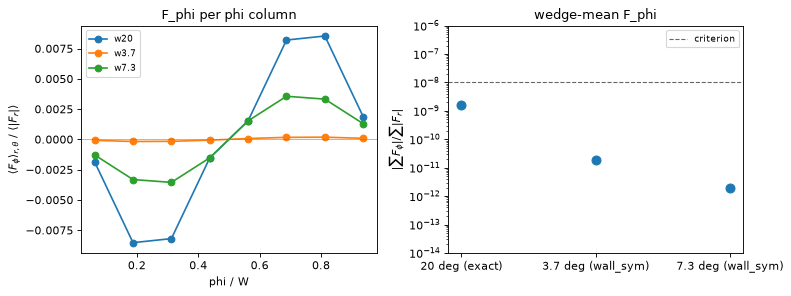
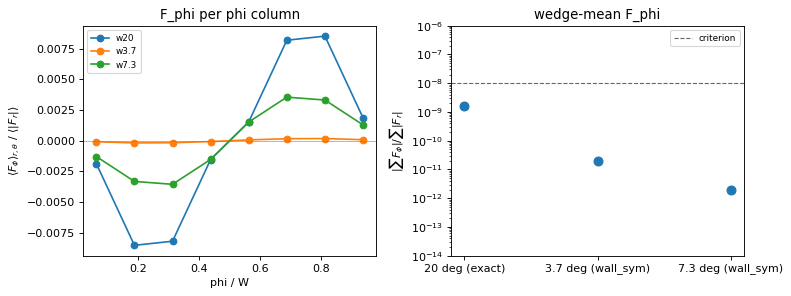
Sync from vet-clean-release c74b0d083: order of accuracy as measured; front page wording

diff --git a/source/properties.rst b/source/properties.rst
@@ -34,7 +34,9 @@ reason it holds, where it stops holding, and the test in ``tests/vet_clean`` tha
 | well-balance             | equilibrium envelopes stay at rest to about 1e-9 of the sound    |
 |                          | speed                                                            |
 +--------------------------+------------------------------------------------------------------+
-| order                    | second order in space and time, asymptotically                   |
+| order                    | successive orders of the finest pair: 1.8 (time ladder of deck   |
+|                          | D), 1.9-2.2 (grid + time ladder of a linear wave); first order   |
+|                          | in time where the gas-radiation exchange is stiff                |
 +--------------------------+------------------------------------------------------------------+
 | radiation-acoustic waves | phase speed and damping right in every trapping regime           |
 +--------------------------+------------------------------------------------------------------+
@@ -243,13 +245,24 @@ the rotating sets ``_rot`` 4.7e-9 and 9e-10).
    The spherical-polar envelope at t = 0 and t = 10: density, internal and radiation energy (left; the curves overlap) and the radial velocity, of order 1e-10 (right).
 
 
-Second order in space and time
-~~~~~~~~~~~~~~~~~~~~~~~~~~~~~~
+Order of accuracy in space and time
+~~~~~~~~~~~~~~~~~~~~~~~~~~~~~~~~~~~
 
-The face terms are second order in space; the IMEX SDIRK2 pairing is second order in time.
-At the time steps of the test, deck D is still pre-asymptotic: the successive orders are 1.57,
-1.61 and 1.84 (E) as dt is halved, and finer ladders reach 2. A first-order defect would show
-as an order near 1.
+The face terms are second order in space by design. What the tests measure:
+
+- Time, deck D (spherical shell, kinematic gas, dt halved from 1/16 to 1/256 on a fixed
+  grid): the successive orders are 1.57, 1.61, 1.84 (E), 1.50, 1.52, 1.81 (F_r) and 1.34,
+  1.43, 1.83 (T), below 2 on the whole ladder. The finest pair differs by 3.15e-5 (E),
+  1.68e-4 (F_r) and 6.9e-6 (T). The loss is attributed to the weight 1/(1 + z), z = c dt/dx,
+  of the stage-2 closure line (an earlier study, not re-measured on this release).
+- Grid and time step together, a linear radiation-hydro wave (N = 16 ... 128): the orders are
+  1.79, 2.19 (E) and 1.50, 1.94 (v); the finest pair differs by 4.49e-3 (E) and 1.11e-2 (v).
+
+The exchange is not stiff in either deck. Where it is stiff, the production tableau
+(``time2_tableau = sdirk2``) is first order in time: on a radiation-acoustic wave (64 cells,
+dt halved) the successive orders of E are 1.08, 1.04 at x = 100 and fall 1.51, 1.34, 1.20 at
+x = 1 and at x = 10 (``time2_tableau = hesdirk2``: 2.0 in all three). These are from a study on
+this release, not a suite test.
 
 Test: ``order_time`` (order of the finest pair >= 1.7), ``order_space`` (linear
 radiation-hydro wave on a Cartesian mesh, finest pair >= 1.7).
@@ -425,8 +438,8 @@ removes the one-frame seam face's net :math:`F_\theta` (the 2.5e-2 mirror error 
 Test: ``wedge_sym`` (a spherically symmetric shell on 3.7 and 7.3 deg wedges with the key and a
 20 deg wedge without it: :math:`|\sum F_\phi|/\sum|F_r| \le 10^{-8}`, measured 2e-12 to 2e-9; the
 narrow wedge without the key stops with the FATAL; the shell made theta-periodic stops with
-the FATAL without ``vet_gd_theta_seam_sym``; with it the mean :math:`F_\theta` is reported, 1e-5 of
-:math:`\sum|F_r|` after 8 cycles, an open item).
+the FATAL without ``vet_gd_theta_seam_sym``; with it the mean :math:`F_\theta` is <= 1e-8 of
+:math:`\sum|F_r|` after 8 cycles, measured 1.6e-14).
 
 .. figure:: figures/wedge_sym.png
    :alt: wedge_sym
@@ -464,7 +477,8 @@ Reproducibility
   sums and the multigrid act on fixed N x N lateral tiles. Layouts made of whole tiles are
   bitwise identical when there is one MeshBlock along x1 and, if the theta boundaries are ray
   walls (mirror or vacuum), one MeshBlock along x2, as in the production templates. Splitting
-  across such walls gives a round-off difference (about 1e-10 after 8 cycles).
+  across such walls gives a round-off difference (below 1e-13 of the largest
+  value after 8 cycles, CPU, 89b05b1c7).
 - **Block mode** (default): the result depends on the MeshBlock size at the solver
   tolerance, because the preconditioner is MeshBlock-local.
 

diff --git a/source/tests.rst b/source/tests.rst
@@ -134,12 +134,12 @@ What the tests check
 |                      |                      | ``hydro/rad_signal_speed_phase`` (full   |                       |
 |                      |                      | only, ~1 min)                            |                       |
 +----------------------+----------------------+------------------------------------------+-----------------------+
-| ``wedge_sym``        | ``shell_sp``         | the shell at rest, spherically           | fphi <= 1e-8, fth_rot |
-|                      |                      | symmetric, GL 7 x 18 rays, 8 cycles, on  | <= 1e-8 (fth          |
-|                      |                      | a 20 deg wedge and (with                 | reported); the runs   |
-|                      |                      | ``vet_gd_wall_sym = true``) 3.7 and 7.3  | without their key,    |
-|                      |                      | deg wedges: fphi = \|Σ F_phi\| / Σ       | and 10 x 12, stop     |
-|                      |                      | \|F_r\|; the 3.7 deg wedge without the   | with the FATAL        |
+| ``wedge_sym``        | ``shell_sp``         | the shell at rest, spherically           | fphi, fth, fth_rot <= |
+|                      |                      | symmetric, GL 7 x 18 rays, 8 cycles, on  | 1e-8; the runs        |
+|                      |                      | a 20 deg wedge and (with                 | without their key,    |
+|                      |                      | ``vet_gd_wall_sym = true``) 3.7 and 7.3  | and 10 x 12, stop     |
+|                      |                      | deg wedges: fphi = \|Σ F_phi\| / Σ       | with the FATAL        |
+|                      |                      | \|F_r\|; the 3.7 deg wedge without the   |                       |
 |                      |                      | key; the 20 deg shell made               |                       |
 |                      |                      | theta-periodic with                      |                       |
 |                      |                      | ``vet_gd_theta_seam_sym = true``: fth =  |                       |
@@ -360,9 +360,10 @@ Notes on the results of this release (465aff485):
   is its face momenta (``CleanLzTotal``; ~0.6 % of the radiation's L_z apart).
 - **Layout.** Tile mode gives bit-identical results for every layout of whole-tile
   MeshBlocks with one MeshBlock along x1 and x2 (theta): 1 x 2 (along phi) is identical.
-  2 x 2 differs after 8 cycles by 1.6e-10 of the largest value: splitting theta puts ray
-  walls (mirror or vacuum) inside the mesh, which is outside the tile guarantee, so the test
-  bounds that difference instead of requiring 0.
+  2 x 2 differs after 8 cycles by 7.8e-14 of the largest value with 4 OpenMP threads, 3.6e-14
+  with 8 (CPU, 89b05b1c7): splitting theta puts ray walls (mirror or vacuum) inside the mesh,
+  which is outside the tile guarantee, so the test bounds that difference instead of
+  requiring 0.
   The ``dfl`` pair covers the stage-2 outflow limiter: under ``time2_tableau = sdirk2`` the u0
   ghosts held the stage-2 flux state while the interior held the gas state, so the two
   MeshBlocks of a face limited with different donors (before the fix: 1 x 2 differed by
@@ -387,8 +388,9 @@ Notes on the results of this release (465aff485):
   cycle. ``momentum_box`` therefore reports dP (printed, and kept with ``--record``) and does
   not bound it; on spherical polar and cubed-sphere meshes Cartesian P is not a discrete
   invariant at all (local bases), so the test is Cartesian only.
-- **Order.** Deck D reaches second order only as dt -> 0: successive orders 1.57, 1.61,
-  1.84 (E) over the five time steps. The criterion is on the finest pair.
+- **Order.** Deck D's successive orders are 1.57, 1.61, 1.84 (E) over the five time steps:
+  below 2 on the whole ladder. The criterion is on the finest pair.
+  Neither order deck has stiff gas-radiation exchange, where the sdirk2 tableau is first order.
 
 The reference values and tolerances are in ``ref/references.json`` (measured with commit
 512cf768a, CPU, GCC 13, ``-ffp-contract=off``; reproduced to all printed digits on 465aff485 with

diff --git a/source/keys.rst b/source/keys.rst
@@ -226,9 +226,13 @@ Time integration, time step and retries
 +----------------------------------+-----------------------------------+------------------+-----------------+-------------------------------+
 | ``rad_vet/time_scheme``          | ``hesdirk2``: two implicit stages | ``hesdirk2`` on  | all:            | ``rad_vet/rad_vet_init.cpp``  |
 |                                  | per step with the Heun hydro      | a fresh run that | ``hesdirk2``    | (``ImplicitInit``)            |
-|                                  | (second order); ``be``: one       | supports it;     |                 |                               |
-|                                  | backward-Euler solve per step     | ``be`` otherwise |                 |                               |
-|                                  | (first order).                    |                  |                 |                               |
+|                                  | (second order with                | supports it;     |                 |                               |
+|                                  | ``time2_tableau = hesdirk2``;     | ``be`` otherwise |                 |                               |
+|                                  | with the production ``sdirk2``    |                  |                 |                               |
+|                                  | first order in time where the     |                  |                 |                               |
+|                                  | gas-radiation exchange is stiff); |                  |                 |                               |
+|                                  | ``be``: one backward-Euler solve  |                  |                 |                               |
+|                                  | per step (first order).           |                  |                 |                               |
 +----------------------------------+-----------------------------------+------------------+-----------------+-------------------------------+
 | ``rad_vet/time2_tableau``        | Tableau of the two stages:        | ``hesdirk2``     | all: ``sdirk2`` | ``rad_vet/rad_vet_time2.cpp`` |
 |                                  | ``sdirk2`` (Alexander's L-stable  |                  |                 | (``Time2Init``)               |

diff --git a/source/scheme.rst b/source/scheme.rst
@@ -56,7 +56,8 @@ one normal component per face. The face flux of a stage is a blend of
 **Time integration.** IMEX. The hydrodynamics is AthenaK's explicit Heun (``rk2``) integrator,
 unchanged. Radiation transport and the gas-radiation exchange are implicit, with Alexander's
 two-stage L-stable SDIRK tableau (``time2_tableau = sdirk2``); each stage sees the gas at the
-same time as the explicit part, so the IMEX scheme is second order. Backward Euler is the
+same time as the explicit part, so the IMEX scheme is second order where the gas-radiation
+exchange is not stiff (see "Order of accuracy" in section 2). Backward Euler is the
 fallback (first step, or a step whose stage failed). The radiation does not limit the
 stability of the step; with ``<hydro>/rad_signal_speed_diff = true`` (production) it enters the
 hydro time step only where it is trapped: the radiation part of the signal speed is weighted by

diff --git a/source/index.rst b/source/index.rst
@@ -17,7 +17,7 @@ for stellar envelopes.
 Its properties, each with how it is achieved and the test that shows it, are on
 :doc:`properties`: energy and mass conserved to round-off; :math:`L_z` exact on the cubed
 sphere (on spherical polar exact except where the face-flux cone cut acts, booked in a
-ledger); positivity of the density by construction; well-balanced envelopes; second order;
+ledger); positivity of the density by construction; well-balanced envelopes; measured order of accuracy (see :doc:`properties`);
 bitwise restarts, dt retries and rank counts; CPU and GPU agreement to round-off;
 Cartesian, spherical-polar and cubed-sphere meshes with one implementation.
 

diff --git a/source/download.rst b/source/download.rst
@@ -4,7 +4,7 @@
 Download
 ========
 
-This site documents release ``vet-clean-release`` (commit ``89b05b1c7``).
+This site documents release ``vet-clean-release`` (commit ``c74b0d083``).
 
 Clone the repository, switch to the release branch, and fetch Kokkos (a git submodule):
 
